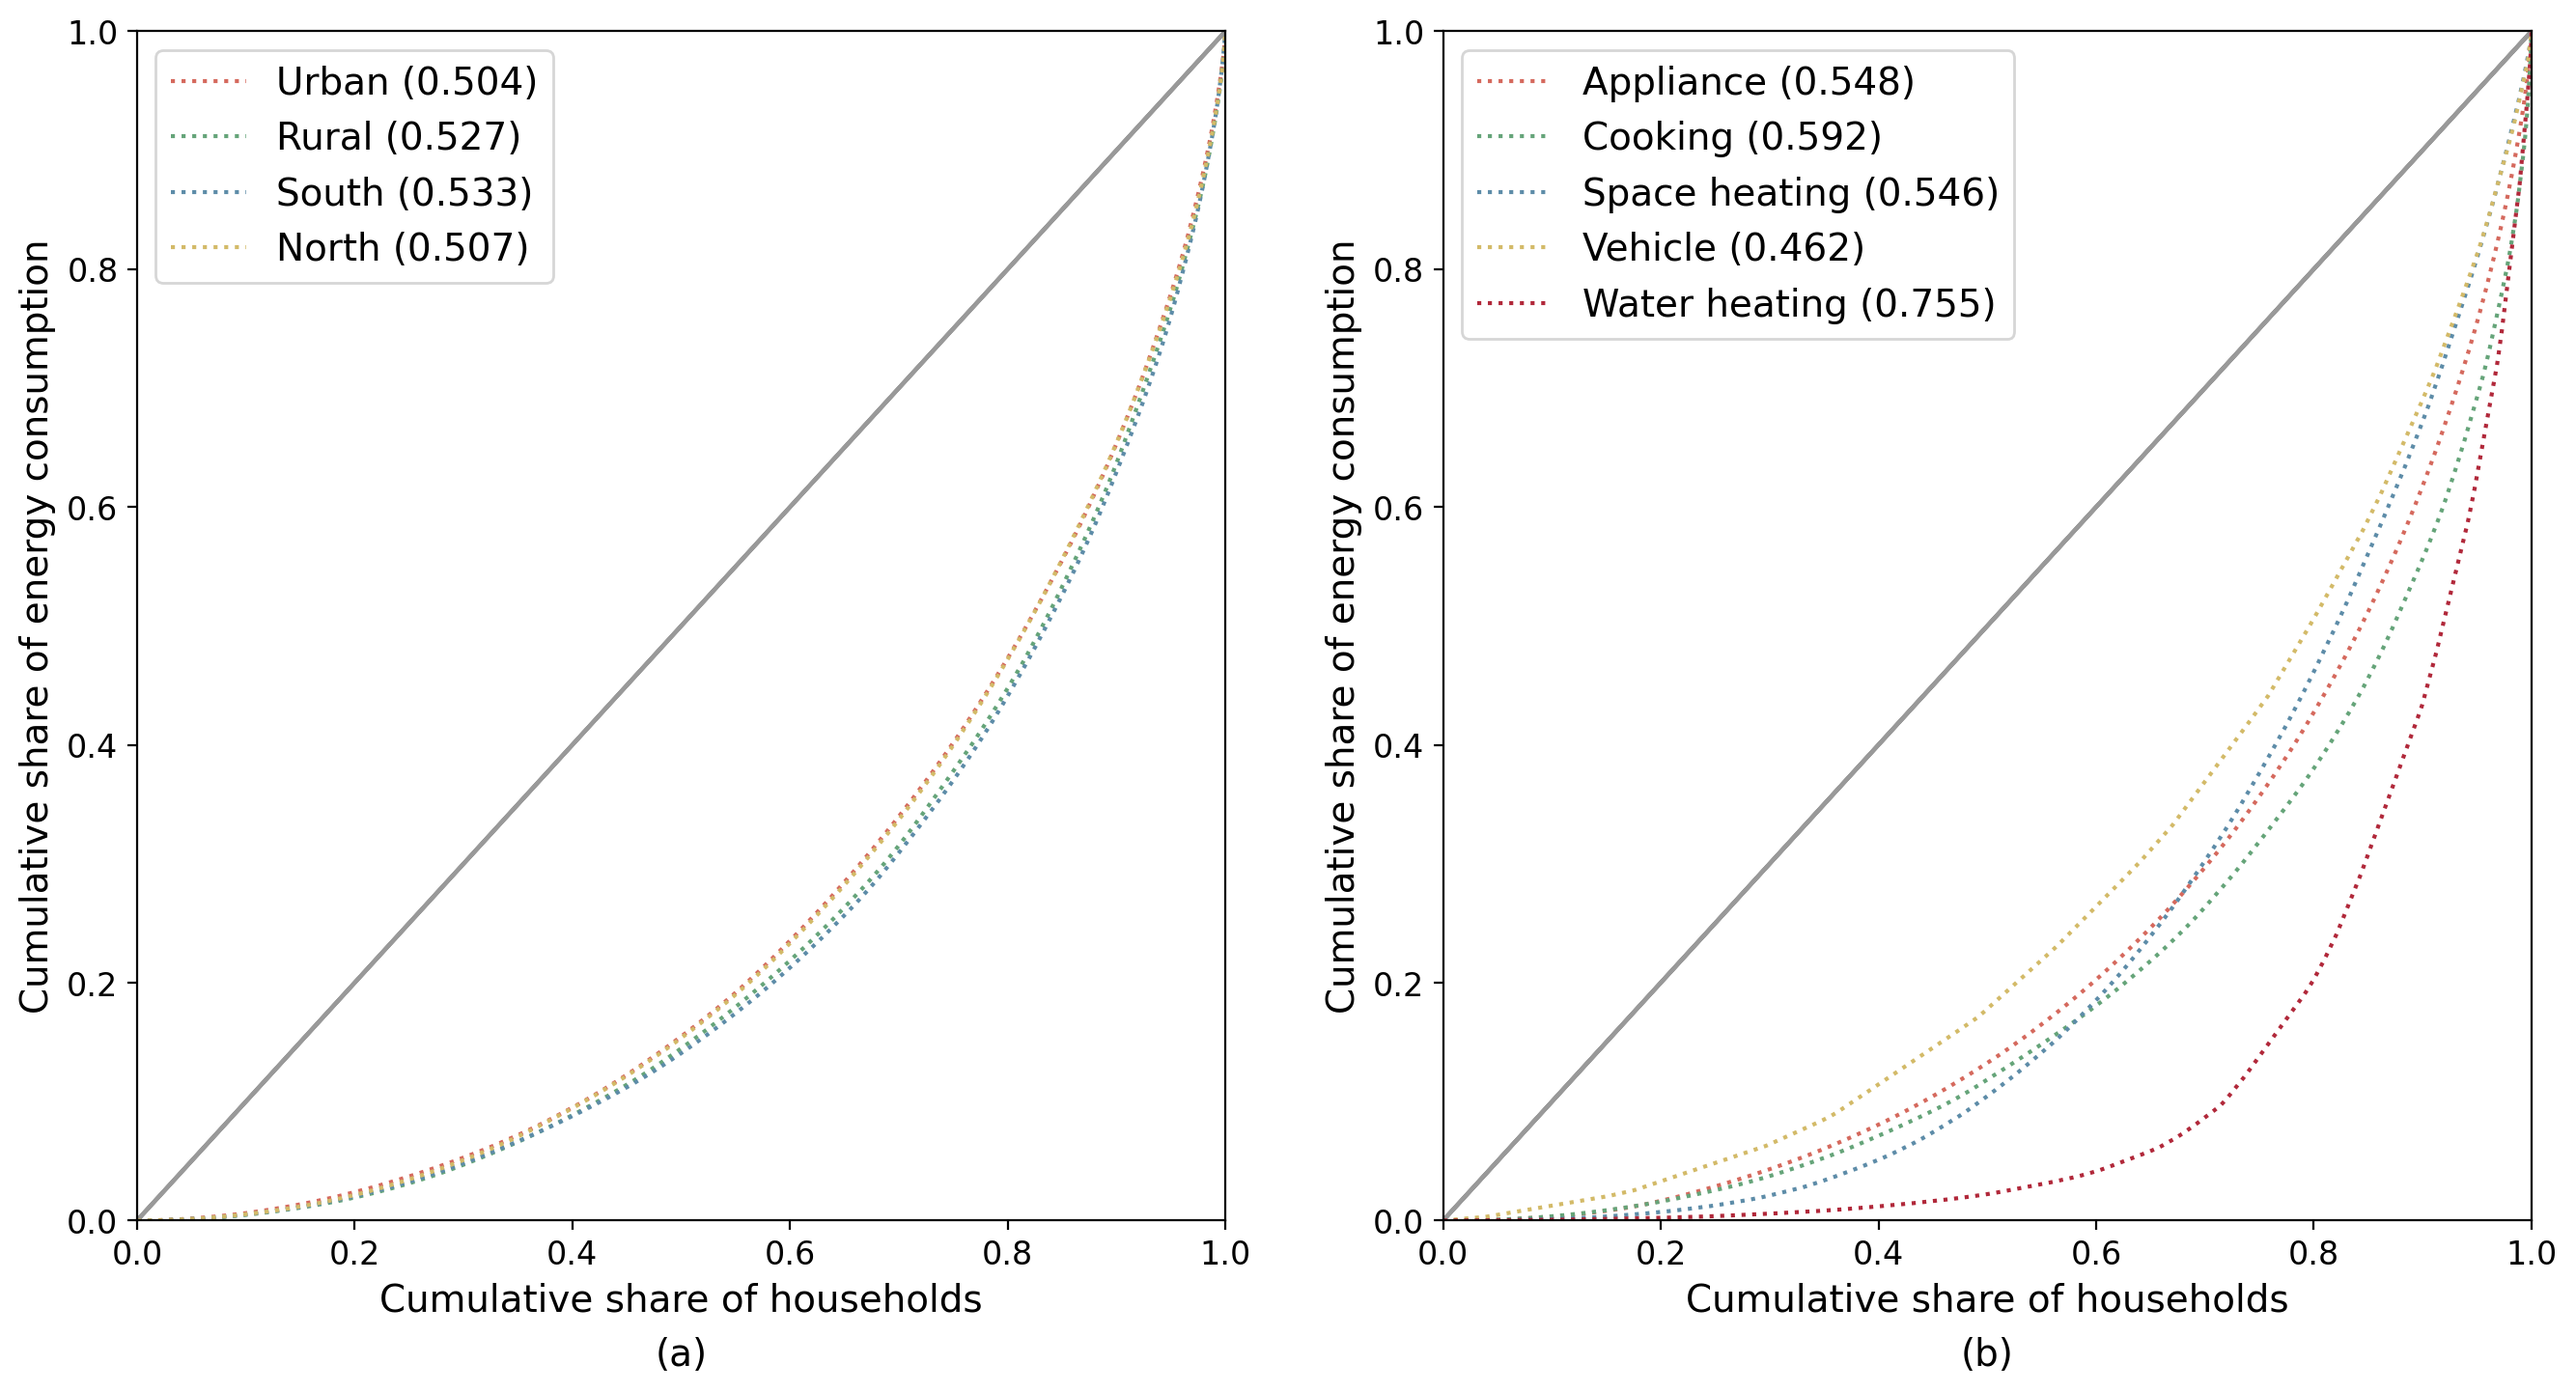
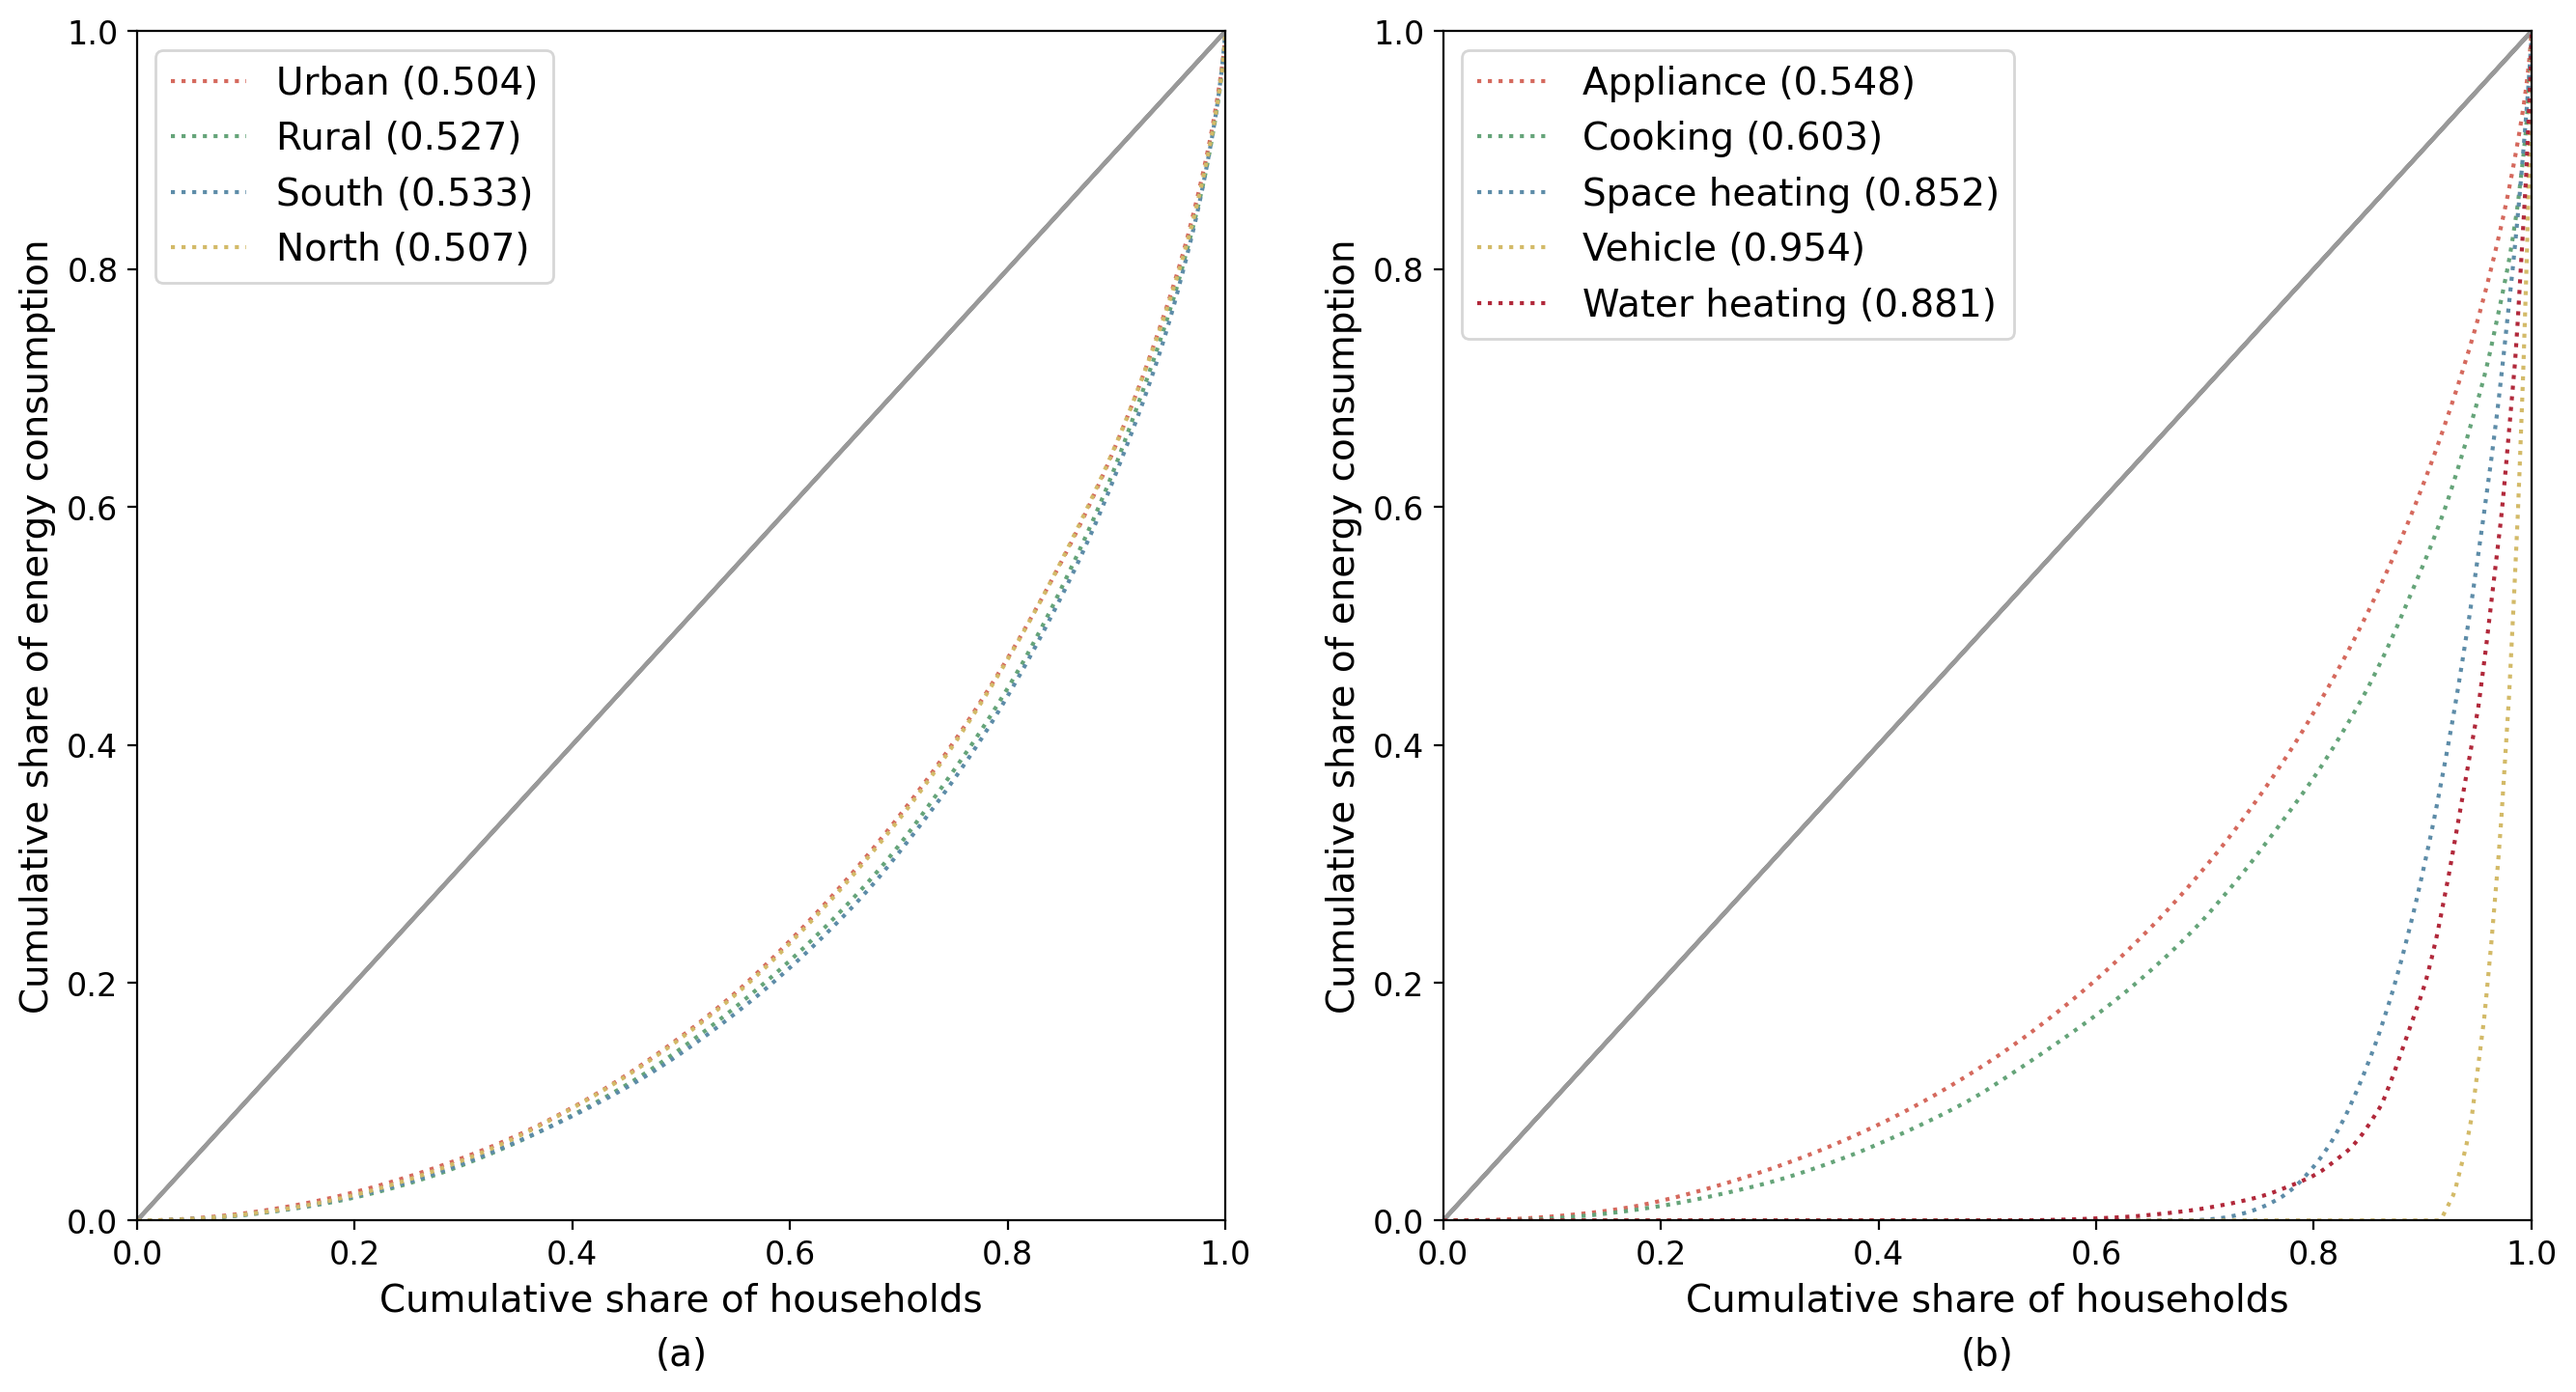
correction of typing and tables & figures before submission

diff --git a/result_two.py b/result_two.py
@@ -61,7 +61,7 @@ def get_energy(data: pd.DataFrame) -> pd.DataFrame:
     return pivot
 
 
-def city_component_chart(energy: pd.DataFrame, cities: np.ndarray) -> pd.DataFrame:
+def city_component_chart(energy: pd.DataFrame, cities: np.ndarray, save: Path = Path('data')) -> pd.DataFrame:
     """
     This function illustrates the components of energy consumption from each category
 
@@ -143,11 +143,11 @@ def city_component_chart(energy: pd.DataFrame, cities: np.ndarray) -> pd.DataFra
 
     plt.tight_layout()
     plt.legend(loc=1, ncol=2, fontsize=14)
-    fig.savefig('img/figure2.pdf', format='pdf', dpi=200)
+    fig.savefig(save / 'figure2.pdf', format='pdf', dpi=200)
     plt.show()
 
 
-def city_energy_chart(data: pd.DataFrame) -> pd.DataFrame:
+def city_energy_chart(data: pd.DataFrame, save: Path = Path('data')) -> pd.DataFrame:
     """
     The dataframe should contain `region` column before analysing and the chart has the following parts:
     - mean values by cities - box plot
@@ -157,7 +157,6 @@ def city_energy_chart(data: pd.DataFrame) -> pd.DataFrame:
     :param data: a pre-processed dataframe
     """
     data = data[data['en_total'] > 0]  # skip zero-value entries
-    out = data[['prefecture_eng']]  # append data to the tot
     # energy consumption by region and city
 
     data['percap_all'] = data['en_total'] / data['size']
@@ -178,8 +177,10 @@ def city_energy_chart(data: pd.DataFrame) -> pd.DataFrame:
     chart['resident'] = chart['resident'].apply(lambda x: 'Urban' if x == 1 else 'Rural')
     # ... dataframe for lineplot
     linechart = data[['region', 'en_total', 'size']].groupby('region').sum().reset_index()
-    # north / south: 433.66, 257.83
+    urbanrural = data[['region', 'resident', 'en_total', 'size']].groupby(['region', 'resident']).sum().reset_index()
+    # north / south: 421.18, 323.89
     regional = (linechart['en_total'] / linechart['size']).values.round(2)
+    ur = (urbanrural['en_total'] / urbanrural['size']).values.round(2)
 
     # pre-processing before making the chart
     # result one: percap energy use by urban/rural by cities
@@ -202,10 +203,16 @@ def city_energy_chart(data: pd.DataFrame) -> pd.DataFrame:
     plt.xlabel('Per capita energy consumption (kgce)', fontsize=14)
     plt.legend(loc=1, ncol=2, fontsize=12)
 
+    # add texts for the north and south
+    plt.text(3500, y=45, s=f'PHEC of the South\n{regional[1]} kgce',
+             ha='left', fontsize=16, weight='bold')
+    plt.text(3500, y=50, s=f'PHEC of the North\n{regional[0]} kgce',
+             ha='left', fontsize=16, weight='bold')
+
     # adjust the margins
     plt.margins(0.01)
     plt.tight_layout()
-    fig.savefig('img/figure1.pdf', format='pdf', dpi=200)
+    fig.savefig(save / 'figure1.pdf', format='pdf', dpi=200)
     plt.show()
     return chart
 
@@ -248,33 +255,27 @@ def create_regional_variable(series):
 
 if __name__ == '__main__':
     # merging data and test
-    datafile = Path('data') / 'vardata-1030.xlsx'
-    data = pd.read_excel(datafile, engine='openpyxl')
-    energyfile = Path('data') / 'energyuse-1103.xlsx'
-    energy = pd.read_excel(energyfile, engine='openpyxl')
-    energy = get_energy(energy)
+    # datafile = Path('data') / 'vardata-1030.xlsx'
+    # data = pd.read_excel(datafile, engine='openpyxl')
+    # energyfile = Path('data') / 'energyuse-1103.xlsx'
+    # energy = pd.read_excel(energyfile, engine='openpyxl')
+    # energy = get_energy(energy)
+    # merged = data.merge(energy, on='id', how='left')
 
-    merged = data.merge(energy, on='id', how='left')
     # preprocess
+    # merged = get_cities(merged)
+    # merged = get_percap(merged, columns=['en_total'])
+    # _, merged['region'] = create_regional_variable(merged['province'])
+    # merged.to_excel(Path('data') / 'mergedata-1103.xlsx', index=False)
+    # diff = merged[['region', 'en_total_no_vehicle']].groupby('region').mean()
+    # diff = merged[['region', 'en_total']].groupby('region').mean()
+
+    # energy consumption chart
+    if not 'merged' in locals():
+        merged = pd.read_excel('data/mergedata-0229.xlsx')
+
     merged = get_cities(merged)
     merged = get_percap(merged, columns=['en_total'])
-    _, merged['region'] = create_regional_variable(merged['province'])
-    merged.to_excel(Path('data') / 'mergedata-1103.xlsx', index=False)
-
-    """ check the data distribution (should be attached to the appendix)
-                en_total_no_vehicle
-    region                     
-    0               1003.835610
-    1                554.723219
-    = 1.81
-               en_total
-    region             
-    0       1210.287436
-    1        742.899574
-    = 1.63
-    """
-    diff = merged[['region', 'en_total_no_vehicle']].groupby('region').mean()
-    diff = merged[['region', 'en_total']].groupby('region').mean()
 
     # city-level variables
     cityfile = Path('data') / 'citydata-1029.xlsx'
@@ -287,15 +288,12 @@ if __name__ == '__main__':
 
     foo = merged[['prefecture', 'en_total', 'size']].groupby('prefecture').sum()
 
-    # energy consumption chart
-    if not 'merged' in locals():
-        merged = pd.read_excel('data/mergedata-1104.xlsx')
-
     index = city_energy_chart(merged)
     cities = index['prefecture_eng'].values.tolist()
     cities.reverse()
 
     # add a new chart to the result one section
+    energyfile = Path('data') / 'energyuse-1103.xlsx'
     energy = pd.read_excel(energyfile, engine='openpyxl')
     # use merged data to append the city info [prefecture_eng]
     energy = energy.merge(merged[['id', 'prefecture_eng']], on='id', how='left')

diff --git a/merge.py b/merge.py
@@ -4,6 +4,7 @@
 #
 
 import pandas as pd
+from config import VAR_MAPPING
 
 # merging the raw energy use data with the household attribute data
 MERGE_MAPPING = {
@@ -48,6 +49,7 @@ def merging(org: pd.DataFrame, tar: pd.DataFrame) -> pd.DataFrame:
 
 if __name__ == '__main__':
     from pathlib import Path
+    import numpy as np
 
     # load calculated data
     cal_datafile = Path('data') / 'CGSS-calculate-20231019.xlsx'
@@ -65,3 +67,38 @@ if __name__ == '__main__':
     merged = merging(calculate, var)
     merge_datafile = Path('data') / f'mergedata-{tag}.xlsx'
     merged.to_excel(merge_datafile, index=False)
+
+    # output descriptive summary
+    datafile = Path('data') / 'mergedata-0229.xlsx'
+    raw = pd.read_excel(datafile, engine='openpyxl')
+    raw = raw.drop(columns=['media', 'aware_trust', 'aware_harm',
+                            'aware_justice', 'aware_happy', 'job', 'fuel_vehicle'])
+
+    # preprocessing and criteria filtering
+    data = raw[(raw['en_total'] > 0 & ~raw['region'].isna())]
+    na_safe_keys = ['children_num', 'elderly_num', 'num_cooking', 'power_cooking', 'freq_cooking', 'time_cooking',
+                    'num_water_heater', 'freq_water_heater', 'time_water_heater', 'num_ac', 'freq_ac', 'power_ac',
+                    'time_ac', 'label_water_heater', 'label_ac', 'type_heating', 'time_heating', 'area_heating',
+                    'cost_heating', 'own_vehicle', 'fuel_price_vehicle', 'cost_vehicle', 'vehicle_dist',
+                    'vehicle_use', 'vehicle_fuel', 'raw_income', 'expenditure', 'income_percap']
+    data[na_safe_keys] = data[na_safe_keys].replace(-99, np.nan)
+    data['en_total_percap'] = data['en_total'].values / data['size'].values
+    data['province_id'] = data['province'].apply(lambda x: list(data['province'].unique()).index(x))
+    data['vehicle_dist'] = data['vehicle_dist'].replace(0, np.nan)
+    data.loc[data['vehicle_dist'].isna(), ['vehicle_fuel', 'vehicle_use']] = np.nan
+
+    # keys in the manuscript
+    keys = ['prefecture_id', 'region', 'age', 'house_area', 'size', 'children_num', 'elderly_num',
+            'expenditure', 'raw_income', 'outside', 'live_days',
+            'if_single_elderly', 'if_singleAE', 'if_singleA', 'if_couple_elderly', 'if_coupleA',
+            'if_singleWithChildren', 'if_coupleWithChildren', 'if_grandparentKids', 'if_bigFamily', 'if_existElderly',
+            'num_cooking', 'power_cooking', 'freq_cooking', 'time_cooking',
+            'num_water_heater', 'freq_water_heater', 'time_water_heater', 'label_water_heater',
+            'num_ac', 'freq_ac', 'power_ac', 'time_ac', 'label_ac',
+            'type_heating', 'time_heating', 'area_heating', 'cost_heating',
+            'vehicle_num', 'fuel_price_vehicle', 'cost_vehicle', 'vehicle_dist', 'vehicle_fuel', 'vehicle_use',
+            'en_total', 'en_total_percap']
+    names = [VAR_MAPPING[k] for k in keys]
+    summary = data[keys].describe().reset_index().T
+    summary.index = ['stats'] + names
+    summary.to_excel(Path('data') / 'clustered-0223' / 'descriptive-summary.xlsx', index=True)

diff --git a/cluster.py b/cluster.py
@@ -277,16 +277,6 @@ if __name__ == '__main__':
     # training dataset after preprocessing
     # Changelog: Changed on 2024-02-26, it used to be vars_std (not all vars)
     train = preprocessing(data.copy(True), vars=vars_all + ['en_total_percap'], scale='zscore')
-    vv = []
-    for v in [var_geo, var_demo, var_econ, var_app, var_mob, var_live, var_family]:
-        vv += v
-        vars_map = {k: VAR_MAPPING[k] for k in vv}
-        var_lasso = lasso_modelling(train, indep_var=vars_map, dep_var='log_en_total_percap', save=path,
-                                    tol=1e-4, max_iteration=100)
-
-        v = var_lasso.loc[var_lasso['coef'].abs() > 0.07, 'vars'].values.tolist()
-        score, cls = clustering_modelling(data, vars=v, epoch=13, n_clusters=1, display=False)
-        print(score)
 
     # Changelog: export describe() for checking purpose
     pd.concat([

diff --git a/result_three.py b/result_three.py
@@ -54,7 +54,7 @@ def inequality_no_cluster(data: pd.DataFrame, save: Path):
     components = ['en_appliance', 'en_cooking', 'en_house_heating', 'en_vehicle', 'en_water_heating']
     label2 = ['Appliance', 'Cooking', 'Space heating', 'Vehicle', 'Water heating']
     data['en_appliance'] = data[compress].sum(axis=1)  # compress 6 types into 1 type
-    arr2 = [data[k].dropna().values for k in components]
+    arr2 = [data[k].fillna(0).values for k in components]
     # make the figure
     titles = ['(a)', '(b)']
     gi = []

diff --git a/config.py b/config.py
@@ -89,7 +89,9 @@ VAR_MAPPING = {
     "en_cooking_percent": "Cooking demand(%)",
     "en_vehicle_percent": "Vehicle demand(%)",
     "en_house_heating_percent": "House heating demand(%)",
-    "en_water_heating_percent": "Water heating demand(%)"
+    "en_water_heating_percent": "Water heating demand(%)",
+    "en_total": "Total energy consumption",
+    "en_total_percap": "Per capita energy consumption"
 }
 
 # clustering mapping›
